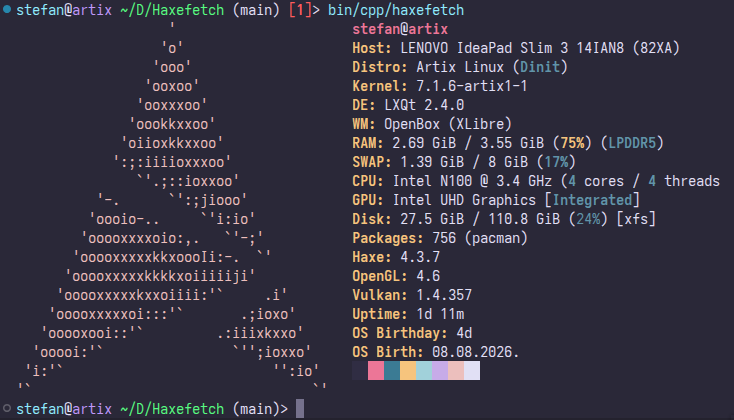
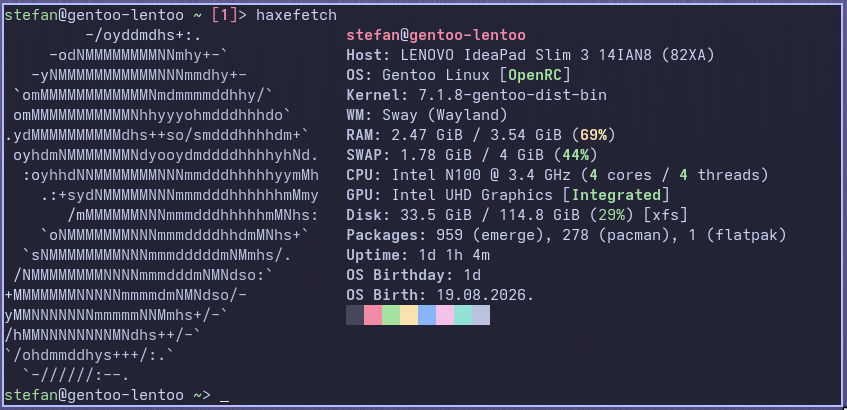
Push

Changed region(s): [[0.0, 0.0, 1.0, 1.0], [0.4196, 0.9073, 0.4496, 0.9366]]

diff --git a/README.md b/README.md
@@ -22,27 +22,23 @@ Haxefetch is fetch program inspired by fastfetch, neofetch, pfetch, nerdfetch, h
 </p>
 <p align="center">(Configuring Haxefetch with .conf support)</p>
 
-## Dependencies
- - `inxi` - Required to show RAM type (optional / not optional)
- - `vulkaninfo` and `vulkantools` - Required to show Vulkan version (optional / not optional)
- - `glxinfo` and `mesa-utils` - Required to show OpenGL version (optional / not optional)
-
-
 ## How to use this?
 
 If you want to use, follow this:
 <details>
     <summary>Getting a binary</summary>
 
-[GH releases](https://github.com/ACoolioDude/Haxefetch/releases)
+Github releases with tarball
+- [GH releases](https://github.com/ACoolioDude/Haxefetch/releases)
 
 For Arch Linux users
-- I made [official Arch repo](https://github.com/ACoolioDude/haxefetch-arch). Read more by clicking on official Arch repo text
-For Gentoo Linux users
-- I made [official overlay](https://github.com/ACoolioDude/haxefetch-overlay) with included ebuilds. Read more by clicking on official overlay text
+- I made [official Arch repo](https://github.com/ACoolioDude/haxefetch-arch). Read more by clicking on "official Arch repo" text
 
-Getting binary
-`wget https://raw.githubusercontent.com/ACoolioDude/Haxefetch/main/binary/haxefetch && chmod +x haxefetch && sudo mv haxefetch /usr/bin/haxefetch`
+For Gentoo Linux users
+- I made [official overlay](https://github.com/ACoolioDude/haxefetch-overlay) with included ebuilds. Read more by clicking on "official overlay" text
+
+Getting binary using `wget`
+- `wget https://raw.githubusercontent.com/ACoolioDude/Haxefetch/main/binary/haxefetch && chmod +x haxefetch && sudo mv haxefetch /usr/bin/haxefetch`
 </details>
 
 <details>
